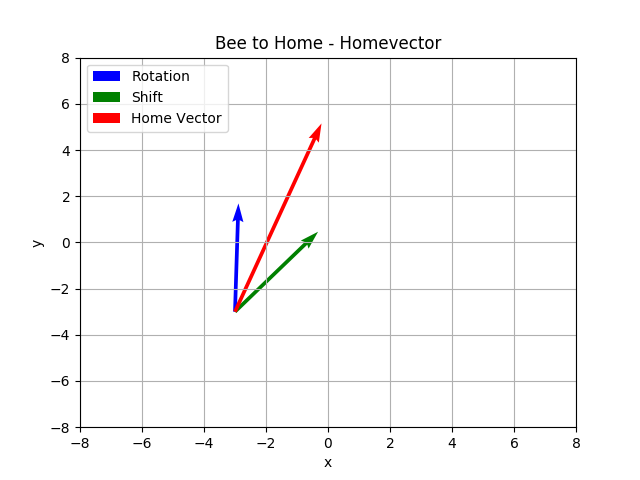
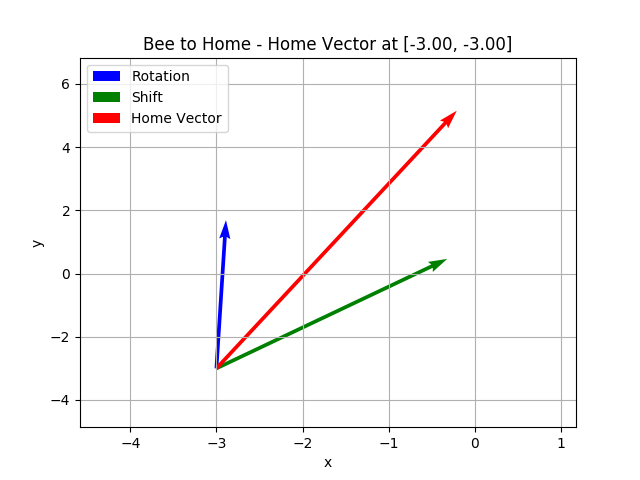
minor changes

diff --git a/Bee-To-Home.py b/Bee-To-Home.py
@@ -26,7 +26,7 @@ result = rotationVector + shiftVector
 plt.figure()
 plt.xlabel('x')
 plt.ylabel('y')
-plt.title('Bee to Home - Homevector')
+plt.title('Bee to Home - Home Vector at ' + '[' + "{:.2f}".format(x) + ', ' + "{:.2f}".format(y) + ']')
 plt.grid(True)
 plt.axis([-8, 8, -8, 8])
 plt.quiver(newPosition[0], newPosition[1], rotationVector[0], rotationVector[1], angles='xy', scale_units='xy', color='b',scale=1, label='Rotation')
@@ -37,7 +37,7 @@ plt.legend(loc='upper left')
 fig, ax = plt.subplots()
 plt.xlabel('x')
 plt.ylabel('y')
-plt.title('Bee to Home - Vectorfield')
+plt.title('Bee to Home - Vector Field')
 plt.grid(True)
 plt.axis([-8,8,-8,8])
 
